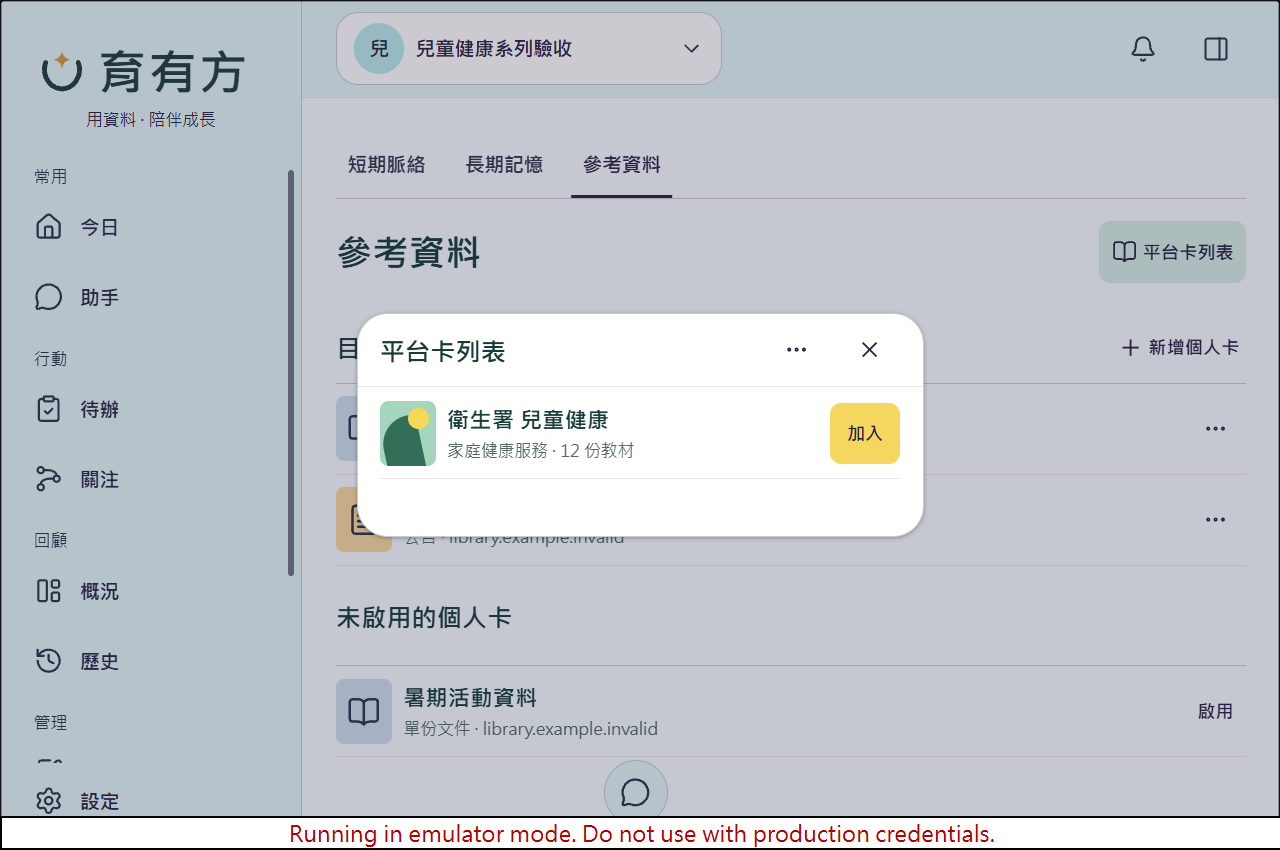
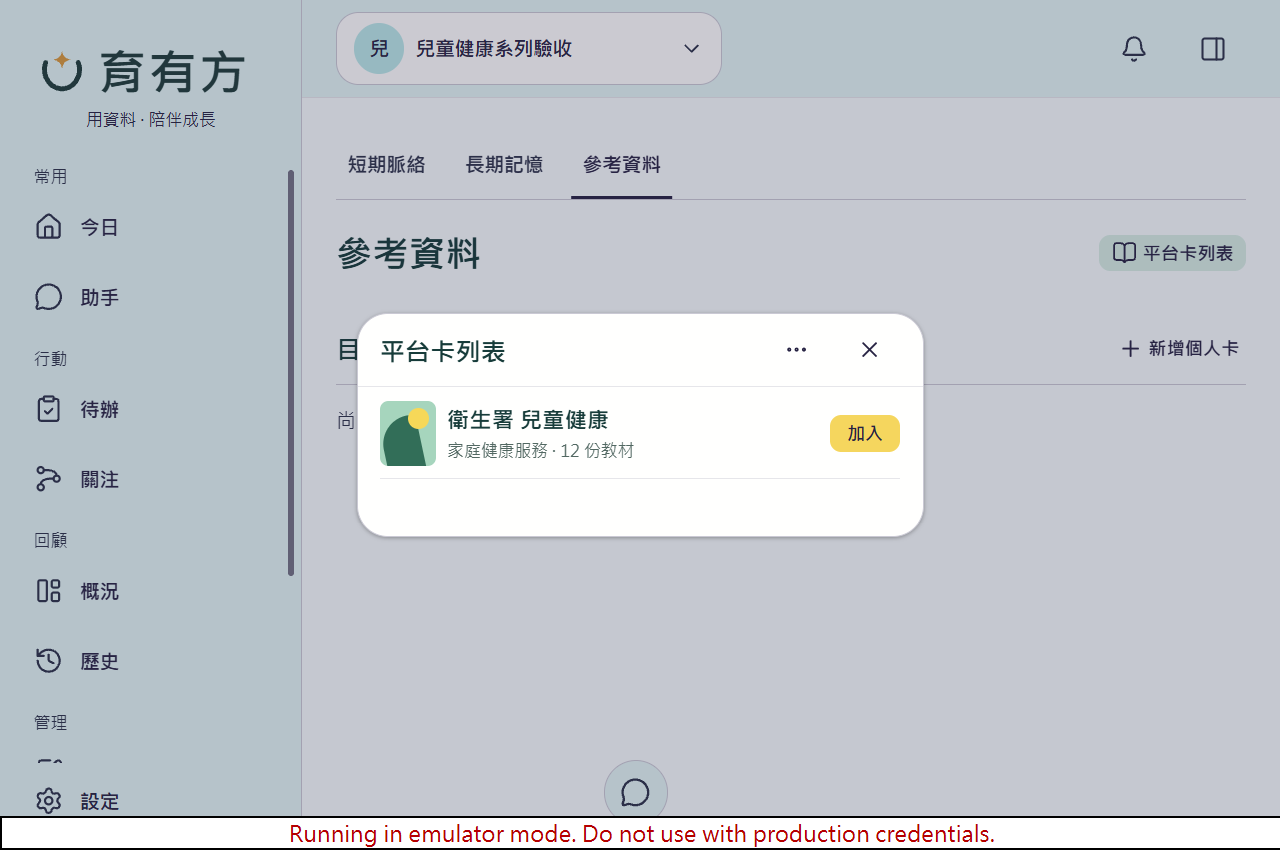
Keep library action colors compact inside full touch targets

diff --git a/frontend/src/components/memory/SourceLibrary.tsx b/frontend/src/components/memory/SourceLibrary.tsx
@@ -11,9 +11,10 @@ export type PersonalCardRows = {
 export function LibraryAction({ label, name = label, onPress, disabled, tone = 'plain', icon, buttonRef, expanded }: {
   label?: string; name?: string; onPress(): void; disabled?: boolean; tone?: 'plain' | 'shop' | 'join'; icon?: AppIconName; buttonRef?: Ref<View>; expanded?: boolean;
 }) {
+  const content = <>{icon ? <AppIcon name={icon} size={18} color={colors.deepTeal} /> : null}{label ? <Text style={s.actionText}>{label}</Text> : null}</>;
   return <Pressable ref={buttonRef} accessibilityRole="button" accessibilityLabel={name} accessibilityState={{ disabled: !!disabled, expanded }} disabled={disabled}
-    onPress={onPress} style={({ pressed }) => [s.action, tone === 'shop' && s.shop, tone === 'join' && s.join, disabled && s.disabled, pressed && s.pressed]}>
-    {icon ? <AppIcon name={icon} size={18} color={colors.deepTeal} /> : null}{label ? <Text style={s.actionText}>{label}</Text> : null}
+    onPress={onPress} style={({ pressed }) => [s.action, tone === 'plain' && s.plain, disabled && s.disabled, pressed && (tone === 'plain' ? s.pressed : s.tintPressed)]}>
+    {tone === 'plain' ? content : <View style={[s.tint, tone === 'shop' ? s.shop : s.join]}>{content}</View>}
   </Pressable>;
 }
 export function LibraryRow({ title, subtitle, art, action, onOpen, label, rowRef, testID, disabled }: {
@@ -61,7 +62,10 @@ const s = StyleSheet.create({
   bulletin: { backgroundColor: '#F9D99D' }, document: { backgroundColor: '#CFDFEC' },
   copy: { flex: 1, minWidth: 0, gap: 2 }, name: { fontFamily: chineseFont, fontSize: 16, lineHeight: 22, fontWeight: '700', color: '#173C3A' },
   meta: { fontFamily: chineseFont, fontSize: 12, lineHeight: 18, color: '#526862' }, empty: { paddingVertical: 16, color: colors.muted },
-  action: { minHeight: 44, minWidth: 44, flexDirection: 'row', alignItems: 'center', justifyContent: 'center', gap: 4, paddingHorizontal: 5, borderRadius: 8, maxWidth: '100%' },
+  action: { minHeight: 44, minWidth: 44, flexDirection: 'row', alignItems: 'center', justifyContent: 'center', maxWidth: '100%' },
+  plain: { gap: 4, paddingHorizontal: 5, borderRadius: 8 },
+  tint: { minHeight: 26, maxWidth: '100%', flexDirection: 'row', alignItems: 'center', justifyContent: 'center', gap: 4, borderRadius: 8 },
+  tintPressed: { opacity: 0.8 },
   actionText: { fontFamily: chineseFont, fontWeight: '600', fontSize: 13, lineHeight: 19, color: colors.ink, flexShrink: 1 },
   shop: { backgroundColor: '#D7EEE4', paddingHorizontal: 9 }, join: { backgroundColor: '#F5D65E', paddingHorizontal: 12 },
   disabled: { opacity: 0.52 }, pressed: { backgroundColor: colors.pressedOverlay },
